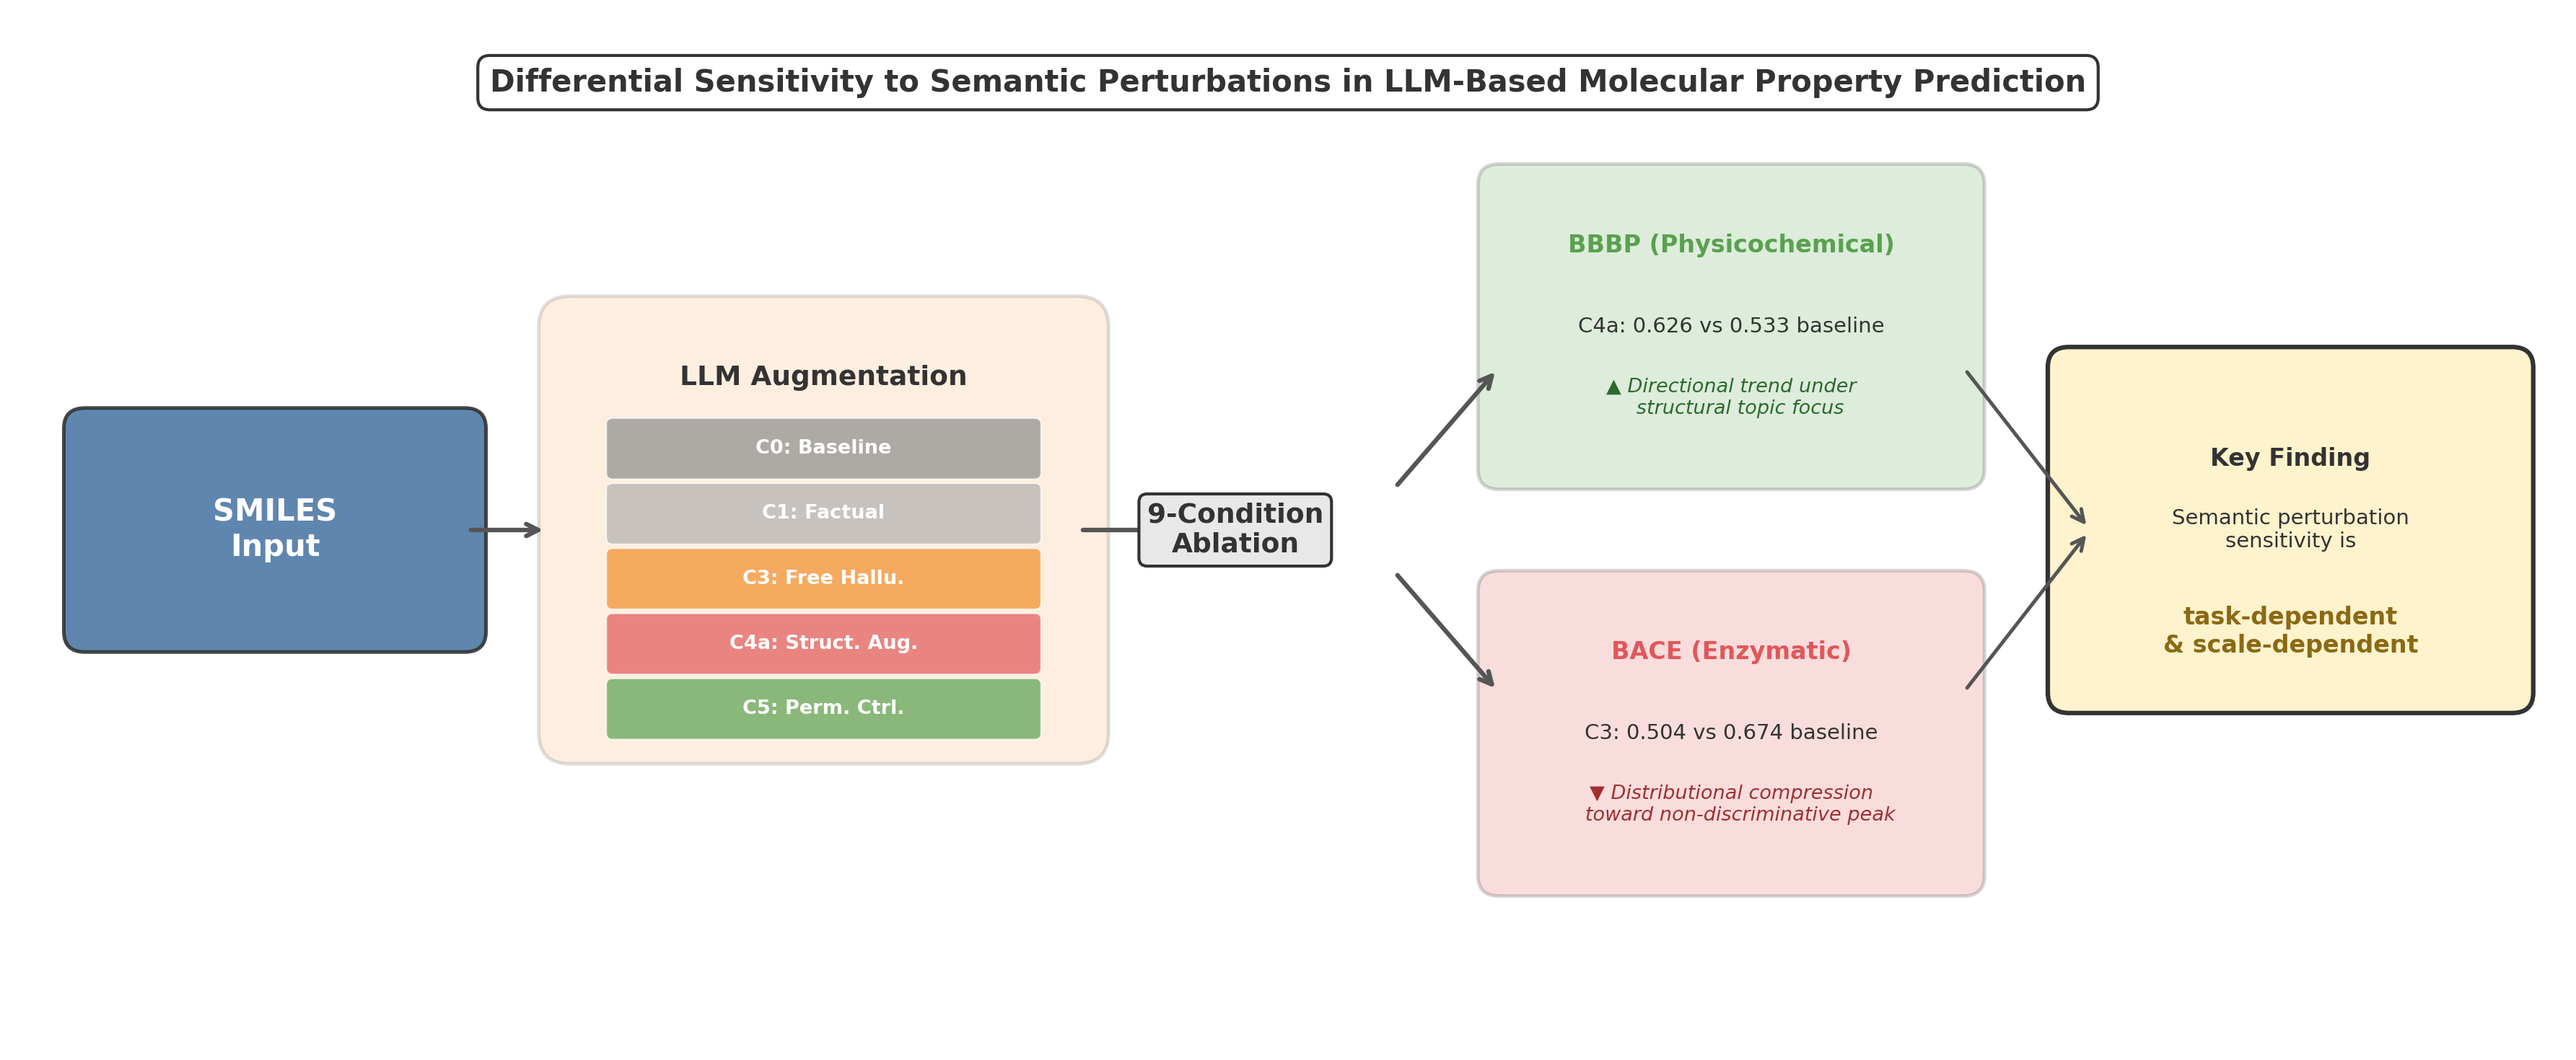
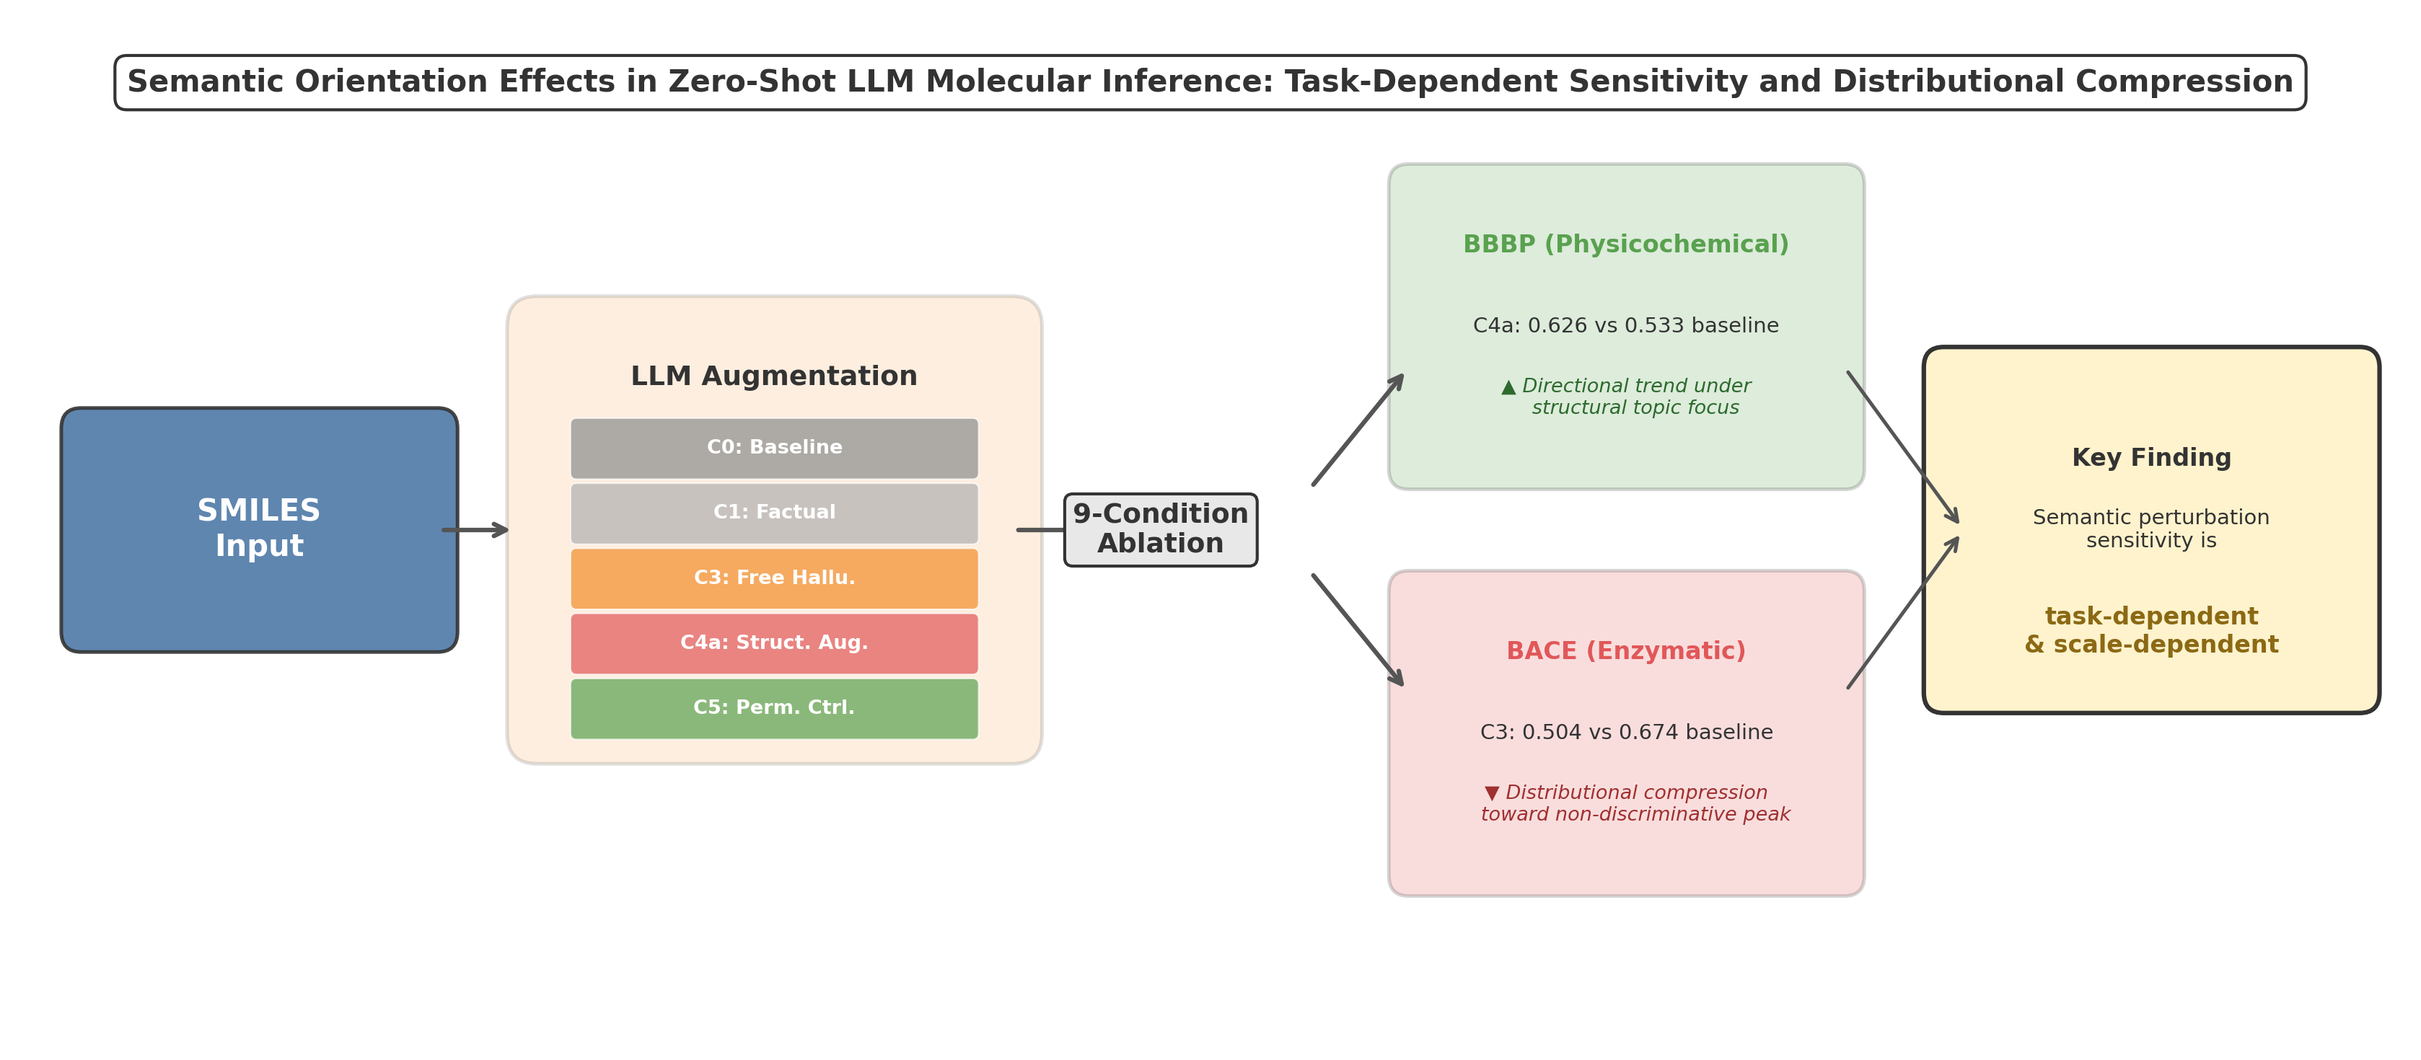
Update title in graphical abstract

diff --git a/src/graphical_abstract.py b/src/graphical_abstract.py
@@ -121,7 +121,7 @@ ax.text(10.75, 2.0, 'task-dependent\n& scale-dependent', ha='center', va='center
     fontsize=8, fontweight='bold', color='#8b6914')
 
 # Title bar at top
-ax.text(6.0, 4.7, 'Differential Sensitivity to Semantic Perturbations in LLM-Based Molecular Property Prediction',
+ax.text(6.0, 4.7, 'Semantic Orientation Effects in Zero-Shot LLM Molecular Inference: Task-Dependent Sensitivity and Distributional Compression',
     ha='center', va='center', fontsize=10, fontweight='bold', color=C_FRAME,
     bbox=dict(boxstyle='round,pad=0.4', facecolor='white', edgecolor=C_FRAME, linewidth=1))
 
